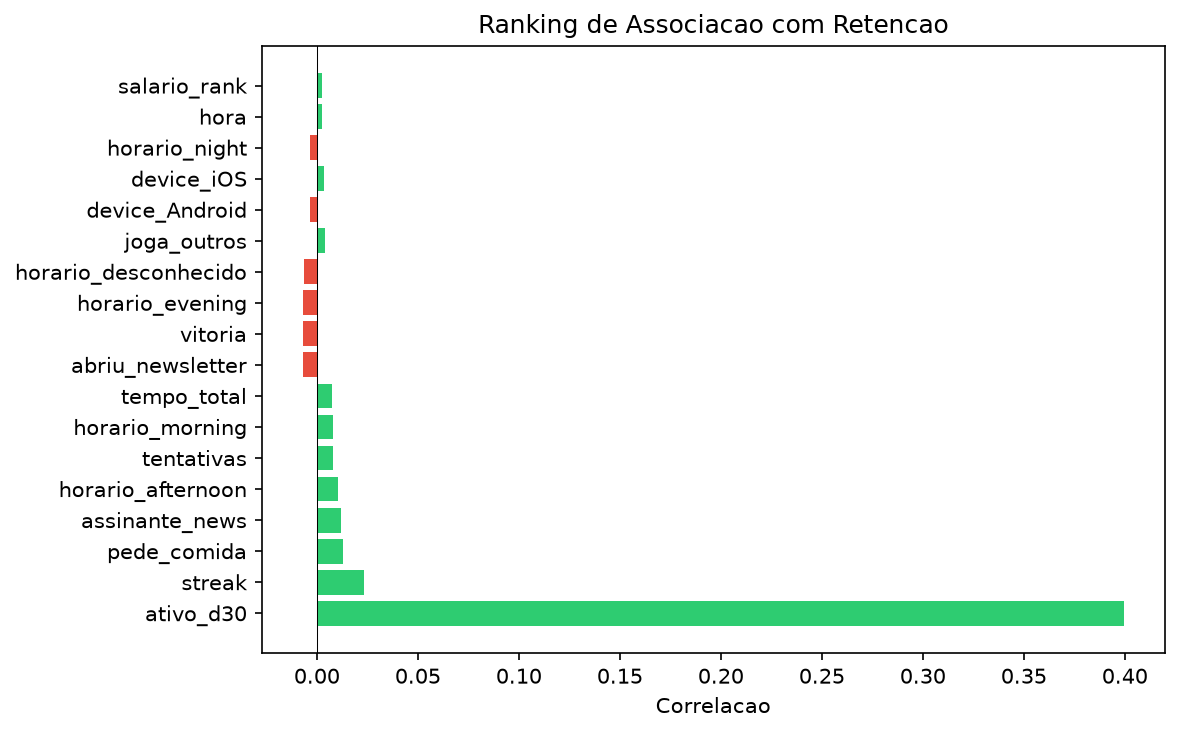
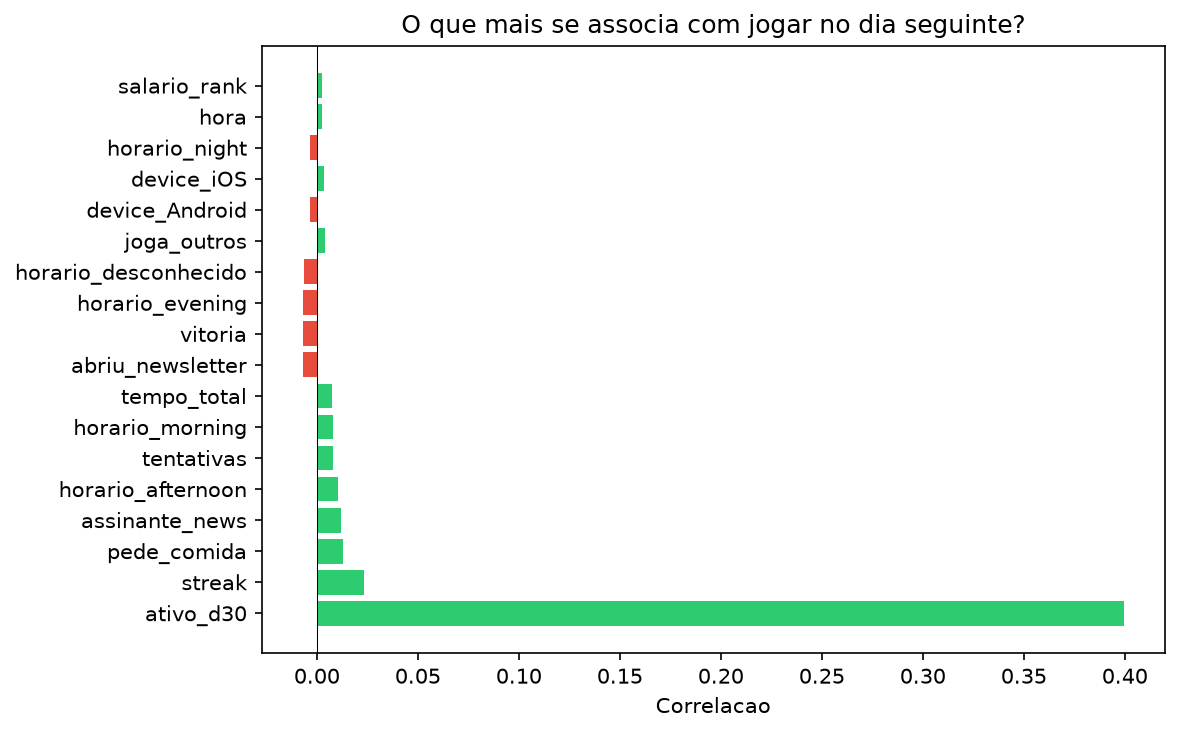
docs: update README with final structure and reorder ranking chart

Changed region(s): [[0.3356, 0.0, 0.8542, 0.06]]

diff --git a/README.md b/README.md
@@ -1,6 +1,6 @@
 # Case - Analista de Dados Produto & Growth | the news
 
-Analise de retencao do Palavritas, jogo de palavras diario do the news.
+Analise de retenção do Palavritas, jogo de palavras diário do the news.
 
 ## Estrutura
 
@@ -10,25 +10,25 @@ the-news-case/
 ├── requirements.txt
 ├── data/
 │   ├── raw/                  (palavritas_sessions.csv, palavritas_attempts.csv, user_profile.csv)
-│   └── processed/            (dados limpos apos rodar o notebook)
+│   └── processed/            (dados limpos após rodar o notebook)
 ├── notebooks/
-│   └── exploration.ipynb     (notebook principal com todas as analises)
+│   └── exploration.ipynb     (notebook principal com todas as análises)
 ├── src/
 │   ├── __init__.py           (imports centralizados)
 │   ├── load.py               (carregamento dos CSVs)
-│   ├── cleaning.py           (diagnostico e limpeza separados)
-│   ├── analysis.py           (analises: retencao, coorte, curva, features)
-│   ├── statistics.py         (testes estatisticos, IC, Bonferroni)
-│   └── plots.py              (visualizacoes com matplotlib/seaborn)
+│   ├── cleaning.py           (diagnóstico e limpeza separados)
+│   ├── analysis.py           (análises: retenção, corte, curva, features)
+│   ├── statistics.py         (testes estatisticos)
+│   └── plots.py              (visualizações com matplotlib)
 ├── sql/
-│   ├── quality_checks.sql    (validacoes de qualidade dos dados)
-│   ├── retention.sql         (retencao por dimensao + segmentacao)
+│   ├── quality_checks.sql    (validações de qualidade dos dados)
+│   ├── retention.sql         (retenção por dimensão + segmentação)
 │   ├── profile.sql           (perfil dos jogadores)
-│   ├── newsletter.sql        (relacao newsletter x jogo)
+│   ├── newsletter.sql        (relação newsletter x jogo)
 │   └── word_difficulty.sql   (dificuldade por palavra + agrupamento)
 ├── reports/
 │   ├── figures/              (9 graficos PNG)
-│   └── final_report.md       (relatorio executivo com hipoteses e experimentos)
+│   └── final_report.md       (relatório executivo com hipóteses e experimentos)
 ```
 
 ## Setup
@@ -40,4 +40,4 @@ jupyter notebook notebooks/exploration.ipynb
 
 ## Autor
 
-Felipe - Case para Analista de Dados Produto & Growth @ the news
+Felipe - Case para Analista de Dados Produto & Growth @the news